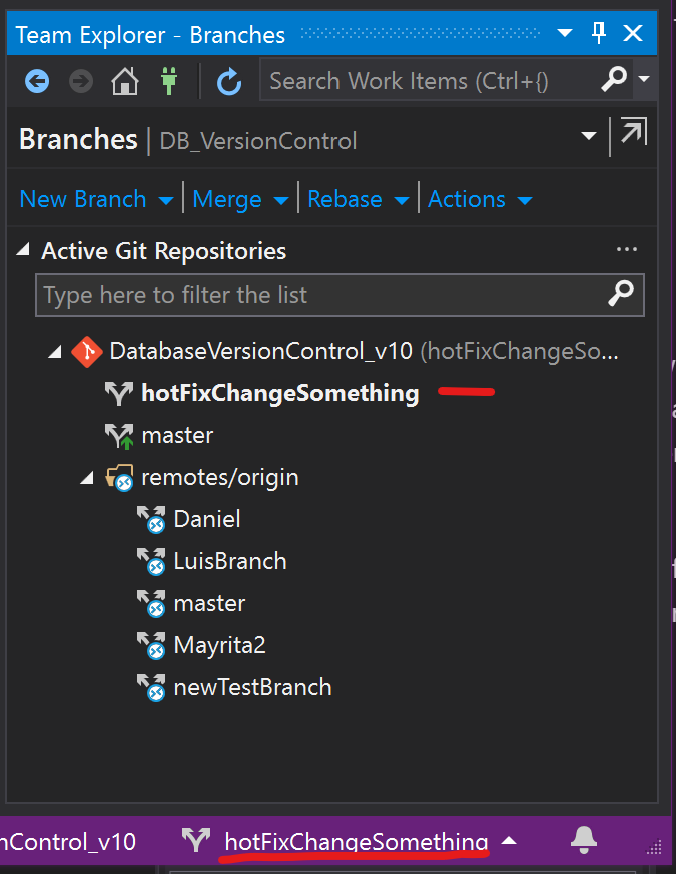
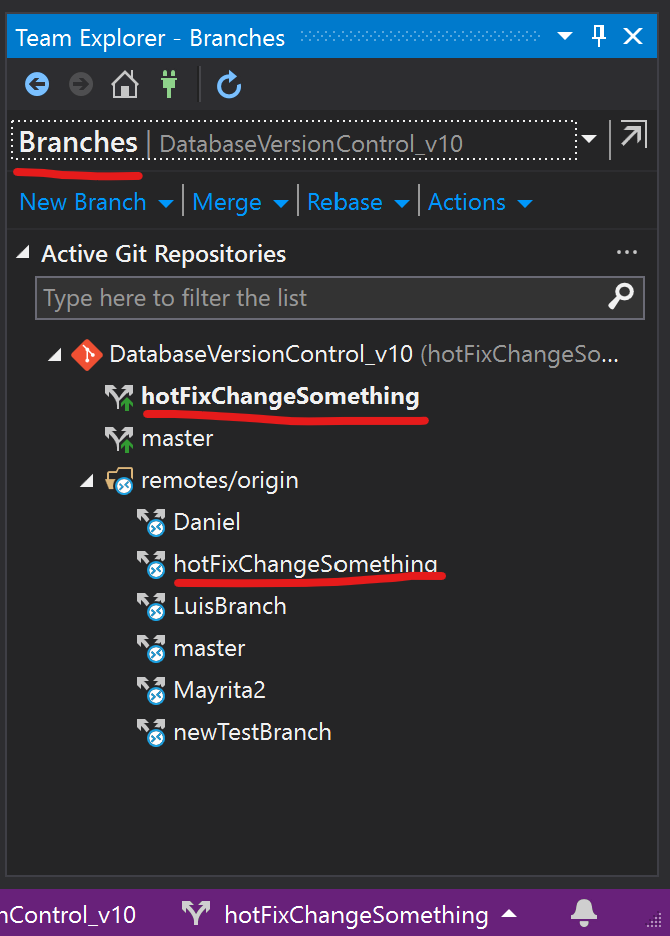
Pull request

diff --git a/README.md b/README.md
@@ -21,9 +21,11 @@ A complete tutorial for implement Azure Devops in any project
 - Then will see the home dasboard for visual studio, in the left side is the Solution Explorer where We can find all files related to work, in the right side is the Team Explorer where We can be sync with the Azure Repository, by default when a repository is cloned it will be in the "master" branch as We can see in the right-bottom in the image below.
 <div style="text-align:center"><img src="img/vs.png" title="Home VS" width="600" ></div>
 
-1. Update local master branch
+
+1. Update local master branch (Pull)
 
 If is the first time you clone a repository it is already updated, files in the local environment are the same than the Azure Repository.
+
 If not, every time a task is started the local master branch should be updated, to do that go to sync option in the Team Explorer view
  <div style="text-align:center"><img src="img/sync.png" title="Sync" width="200" ></div>
 Then click en fetch, it will show all changes has been done in the Azure Repository for other users which are not currently in your local master branch
@@ -44,11 +46,49 @@ The next image shows the Branches details, all branches available are showed in 
 The next image shows the new branch created, by default when a branch is created it will be active, to identity and change the current active branch in the local repository go to the right-bottom corner in the visual studio window, the process to change between branches is called "checkout" and to do a checkout first is needed save and confirm (commit) all changes, if some changes are not commited it will be moved when you make a checkout
 <div style="text-align:center"><img src="img/newBranchCreated.png" title="Branches" width="250" ></div>
 
-3. Save work done and create a pull request
+3. Save changes in the local repository (Commit)
+
+In the image below, in the Solution Explorer view a new exampleFileAdded.txt file was added to simulate the work done
+
+<div style="text-align:center"><img src="img/exampleFileAdded.png" title="Work done" width="800" ></div>
+
+Once the task has been done and tested it is time to save the changes (Commit); commiting your changes is important because it allows track every change and easily back in the time, to do that first click in the save button in visual studio (<img src="img/save.png" title="Save" width="30">) then go to changes section in the Team Explorer and click en Changes
+
+<div style="text-align:center"><img src="img/changes.png" title="Changes" width="250" ></div>
+
+Then write a commit message, it should describes all important features related to task done, then click in Commit All, it will save the changes in the git internal system
+<div style="text-align:center"><img src="img/commit.png" title="Making a commit" width="600" ></div>
+
+When a commit is successful changes in the list should disapear, also a message of created commit and a sign to Sync your changes with the server appear, that is because the work is safe but only in the local repository.
+
+<div style="text-align:center"><img src="img/commitDone.png" title="Successful commit" width="600" ></div>
+
+4. Upload changes to the remote repository (Push) 
+
+Once the task branch is commited, it is time to upload (Sync) this commit to the Azure Repository (remote repository), go to Team Explorer and click in Sync
+<div style="text-align:center"><img src="img/sync.png" title="Sync" width="200" ></div>
+
+The Outgoing Commits section shows some details of the changes as author, the commit message and when was commited, then click in Push
+<div style="text-align:center"><img src="img/push.png" title="Preparing Push" width="250" ></div>
+
+The image below shows a successful push, it means that a remote branch named "hotFixChangeSomehing" was created in the remote repository as well
+<div style="text-align:left; display:inline"><img src="img/pushDone.png" title="Successful Push" width="250" ></div>
+<div style="text-align:right;  display:inline"><img src="img/remoteBranchCreated.png" title="Successful Push" width="250" ></div>
 
 
 
-4. Resolve conflicts
+
+5. Send a request to admin to merge your changes into production (Pull Request)
+
+By business policies it is not posible push the changes directly to the remote master branch, the it is necesary to send a request to the admin, the admin will decide based in your work done if the request is approved or rejected, this proces is called Pull Request.
+
+To make a Pull Request go back in the Team Explorer and click in "Pull Request"
+<div style="text-align:center"><img src="img/pullRequest.png" title="Branches" width="250" ></div>
+
+
+
+
+1. Resolve conflicts
 
 
 
